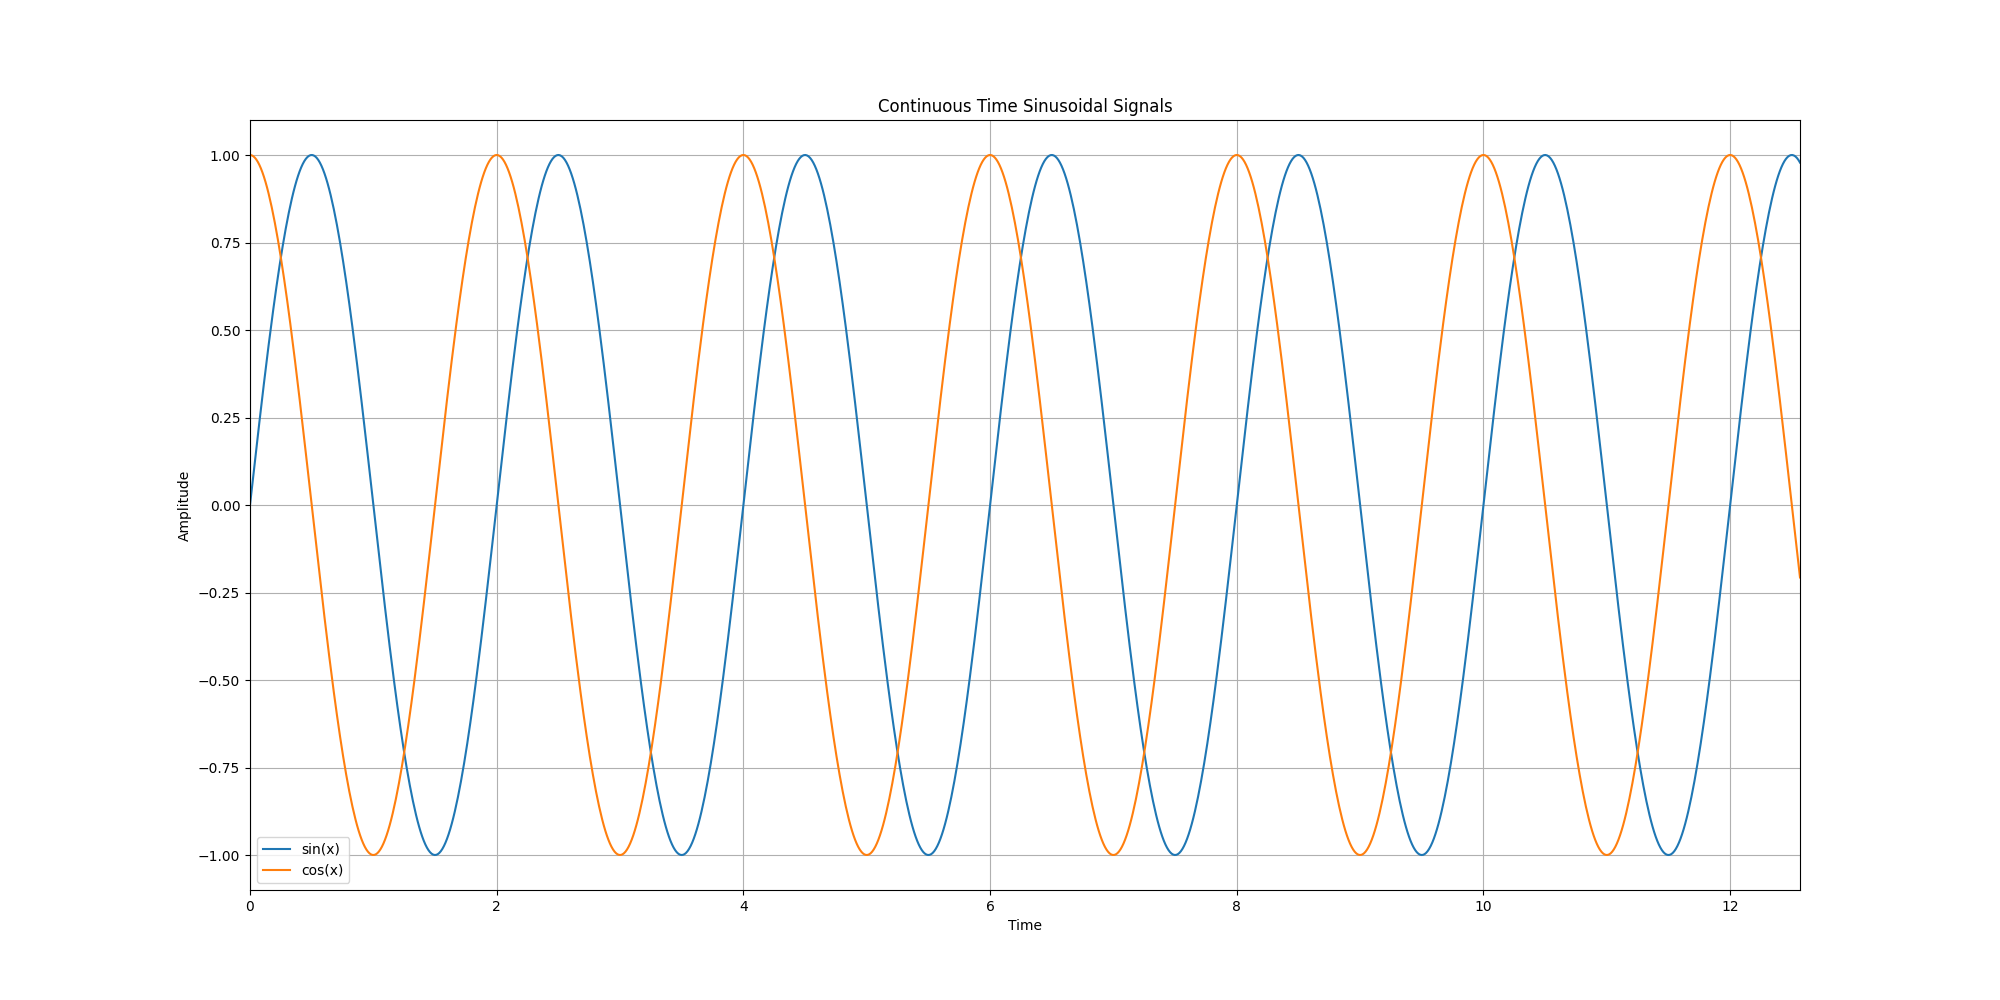
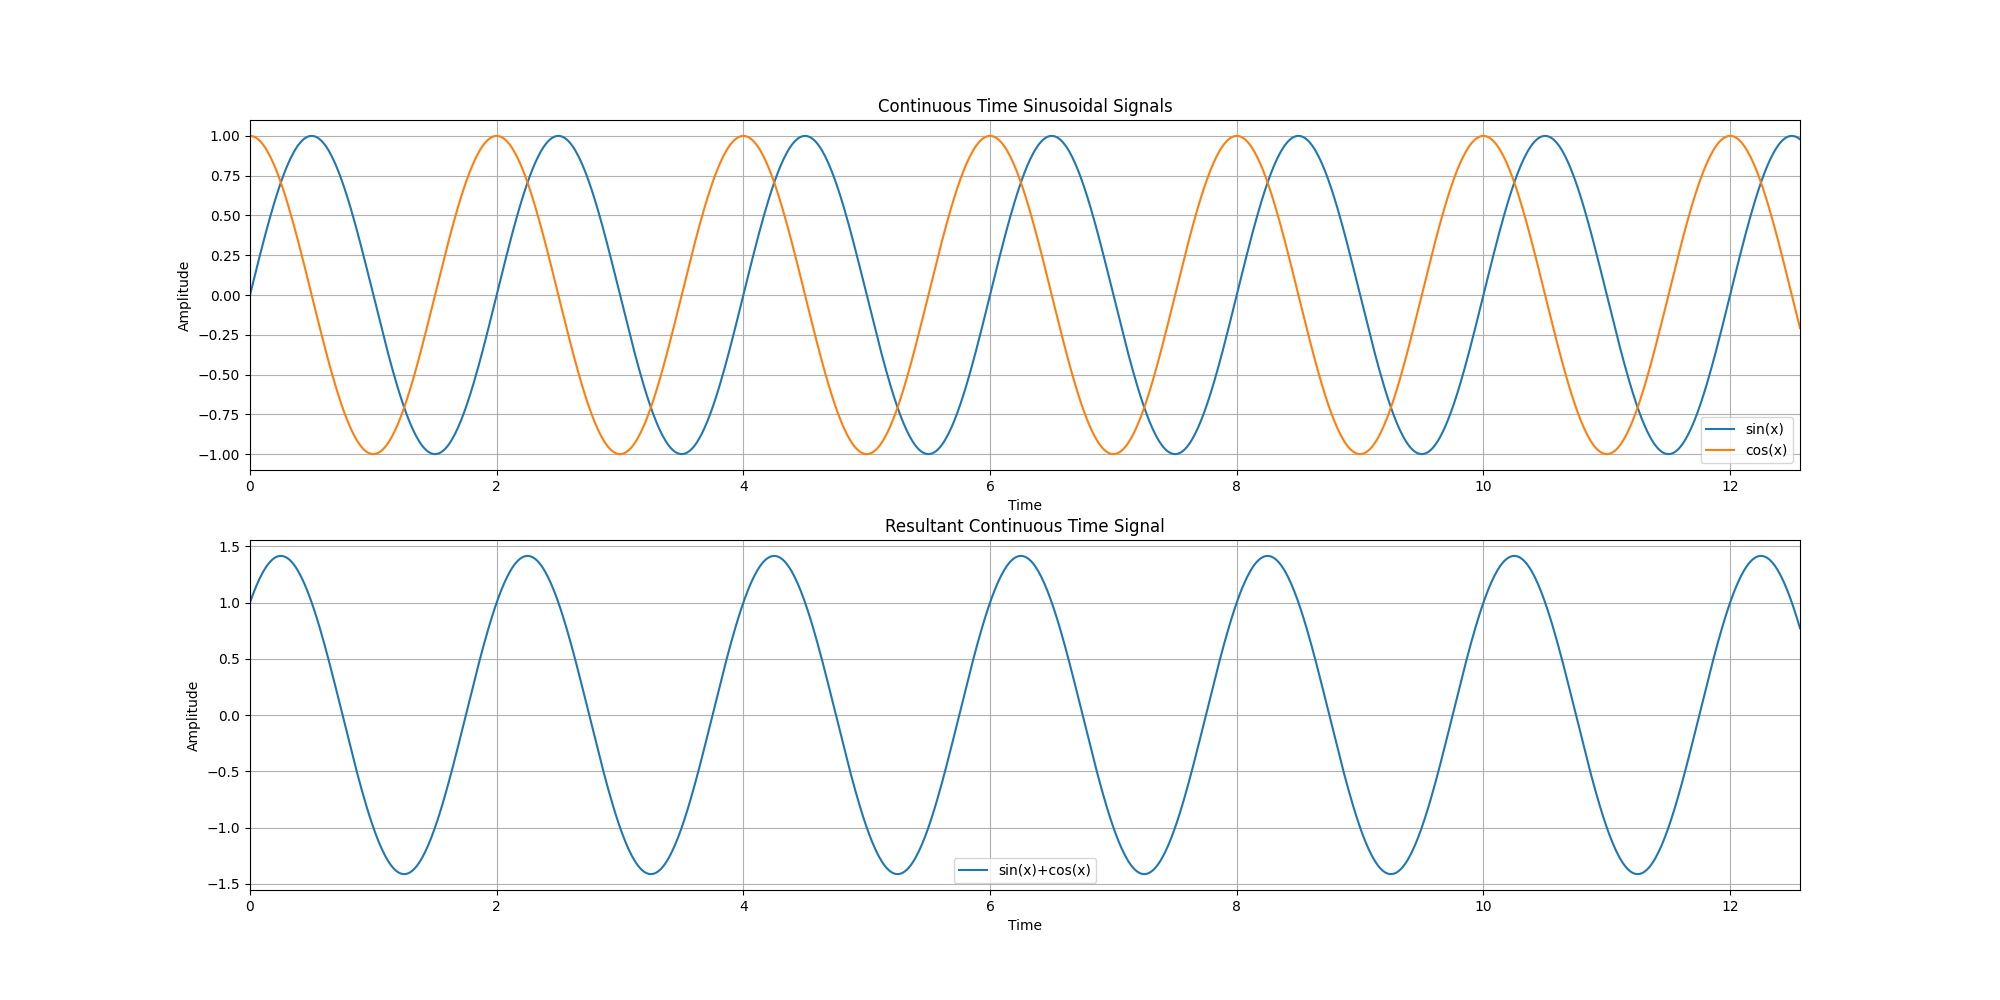
Ops

diff --git a/02.Operations/multiplication.py b/02.Operations/multiplication.py
@@ -1,0 +1,37 @@
+import numpy as np 
+import matplotlib.pyplot as plt 
+
+pi = np.pi
+frequency_1 = 0.5
+frequency_2 = 1.5
+
+time = np.linspace(0, 4 * pi, 1000)
+
+amp_1 = np.sin(2 * pi * frequency_1 * time)
+amp_2 = np.cos(2 * pi * frequency_2 * time)
+
+resultant = amp_1 * amp_2
+
+
+plt.figure(figsize=(20, 10))
+
+plt.subplot(2, 1, 1)
+plt.plot(time, amp_1, label='sin(x)')
+plt.plot(time, amp_2, label='cos(x)')
+plt.title('Continuous Time Sinusoidal Signals')
+plt.xlabel('Time')
+plt.ylabel('Amplitude')
+plt.xlim(0, 4 * pi)
+plt.legend()
+plt.grid(True)
+
+plt.subplot(2, 1, 2)
+plt.plot(time, resultant, label='sin(x)cos(x)')
+plt.title('Resultant Continuous Time Signal')
+plt.xlabel('Time')
+plt.ylabel('Amplitude')
+plt.xlim(0, 4 * pi)
+plt.legend()
+plt.grid(True)
+
+plt.savefig('multiplication.png')

diff --git a/02.Operations/subtraction.py b/02.Operations/subtraction.py
@@ -1,0 +1,37 @@
+import numpy as np 
+import matplotlib.pyplot as plt 
+
+pi = np.pi
+frequency_1 = 0.5
+frequency_2 = 1.5
+
+time = np.linspace(0, 4 * pi, 1000)
+
+amp_1 = np.sin(2 * pi * frequency_1 * time)
+amp_2 = np.cos(2 * pi * frequency_2 * time)
+
+resultant = amp_1 - amp_2
+
+
+plt.figure(figsize=(20, 10))
+
+plt.subplot(2, 1, 1)
+plt.plot(time, amp_1, label='sin(x)')
+plt.plot(time, amp_2, label='cos(x)')
+plt.title('Continuous Time Sinusoidal Signals')
+plt.xlabel('Time')
+plt.ylabel('Amplitude')
+plt.xlim(0, 4 * pi)
+plt.legend()
+plt.grid(True)
+
+plt.subplot(2, 1, 2)
+plt.plot(time, resultant, label='sin(x)-cos(x)')
+plt.title('Resultant Continuous Time Signal')
+plt.xlabel('Time')
+plt.ylabel('Amplitude')
+plt.xlim(0, 4 * pi)
+plt.legend()
+plt.grid(True)
+
+plt.savefig('subtraction.png')

diff --git a/02.Operations/addition.py b/02.Operations/addition.py
@@ -1,0 +1,37 @@
+import numpy as np 
+import matplotlib.pyplot as plt 
+
+pi = np.pi
+frequency_1 = 0.5
+frequency_2 = 1.5
+
+time = np.linspace(0, 4 * pi, 1000)
+
+amp_1 = np.sin(2 * pi * frequency_1 * time)
+amp_2 = np.cos(2 * pi * frequency_2 * time)
+
+resultant = amp_1 + amp_2
+
+
+plt.figure(figsize=(20, 10))
+
+plt.subplot(2, 1, 1)
+plt.plot(time, amp_1, label='sin(x)')
+plt.plot(time, amp_2, label='cos(x)')
+plt.title('Continuous Time Sinusoidal Signals')
+plt.xlabel('Time')
+plt.ylabel('Amplitude')
+plt.xlim(0, 4 * pi)
+plt.legend()
+plt.grid(True)
+
+plt.subplot(2, 1, 2)
+plt.plot(time, resultant, label='sin(x)+cos(x)')
+plt.title('Resultant Continuous Time Signal')
+plt.xlabel('Time')
+plt.ylabel('Amplitude')
+plt.xlim(0, 4 * pi)
+plt.legend()
+plt.grid(True)
+
+plt.savefig('addition.png')

diff --git a/02.Operations/amp_scaling.py b/02.Operations/amp_scaling.py
@@ -1,0 +1,33 @@
+import numpy as np
+import matplotlib.pyplot as plt
+
+def amp_scale(signal, scalar):
+    scaled_signal = scalar * signal
+    return scaled_signal
+
+amp = 1
+frequency = 1
+
+time = np.linspace(0, 4 * np.pi, 1000)
+signal = amp * np.sin(2 * np.pi * frequency * time)
+scaled_signal = amp_scale(signal, 2)
+
+plt.figure(figsize=(20, 10))
+
+plt.subplot(2, 1, 1)
+plt.plot(time, signal)
+plt.title('Original Signal')
+plt.xlabel('Time')
+plt.ylabel('Amplitude')
+plt.xlim(0, 4 * np.pi)
+plt.grid(True)
+
+plt.subplot(2, 1, 2)
+plt.plot(time, scaled_signal)
+plt.title('Amplitude Scaled Signal')
+plt.xlabel('Time')
+plt.ylabel('Amplitude')
+plt.xlim(0, 4 * np.pi)
+plt.grid(True)
+
+plt.savefig('amp_scaling.png')

diff --git a/02.Operations/time_scaling.py b/02.Operations/time_scaling.py
@@ -1,0 +1,33 @@
+import numpy as np
+import matplotlib.pyplot as plt
+
+def time_scale(time, scalar):
+    scaled_signal = scalar * time
+    return scaled_signal
+
+amp = 1
+frequency = 1
+
+time = np.linspace(0, 4 * np.pi, 1000)
+signal = amp * np.sin(2 * np.pi * frequency * time)
+scaled_time = time_scale(time, 3)
+
+plt.figure(figsize=(20, 10))
+
+plt.subplot(2, 1, 1)
+plt.plot(time, signal)
+plt.title('Original Signal')
+plt.xlabel('Time')
+plt.ylabel('Amplitude')
+plt.xlim(0, 4 * np.pi)
+plt.grid(True)
+
+plt.subplot(2, 1, 2)
+plt.plot(scaled_time, signal)
+plt.title('Time Scaled Signal')
+plt.xlabel('Time')
+plt.ylabel('Amplitude')
+plt.xlim(0, 4 * np.pi)
+plt.grid(True)
+
+plt.savefig('time_scaling.png')

diff --git a/01.GeneratingSignals/digital_signal.py b/01.GeneratingSignals/digital_signal.py
@@ -1,0 +1,15 @@
+import numpy as np 
+import matplotlib.pyplot as plt 
+
+time = np.array([0,1,2,3,4,5,6,7,8,9])
+amp = np.array([0,0,0,1,1,0,1,0,0,1])
+
+plt.figure(figsize=(20, 10))
+
+plt.stem(time, amp)
+plt.title('Digital Signal')
+plt.xlabel('Time')
+plt.ylabel('Amplitude')
+plt.grid(True)
+
+plt.savefig('digital_signal.png')
